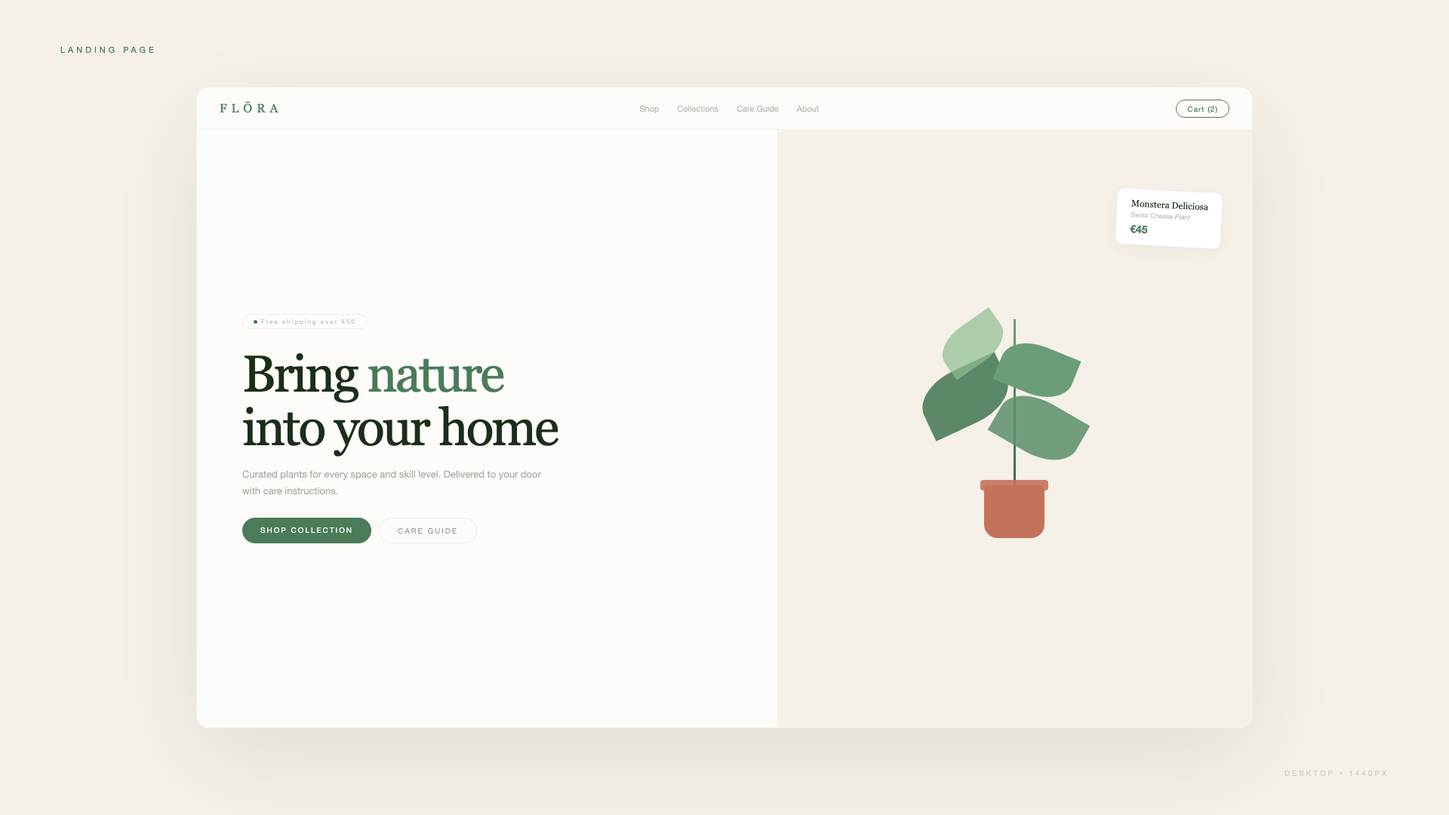
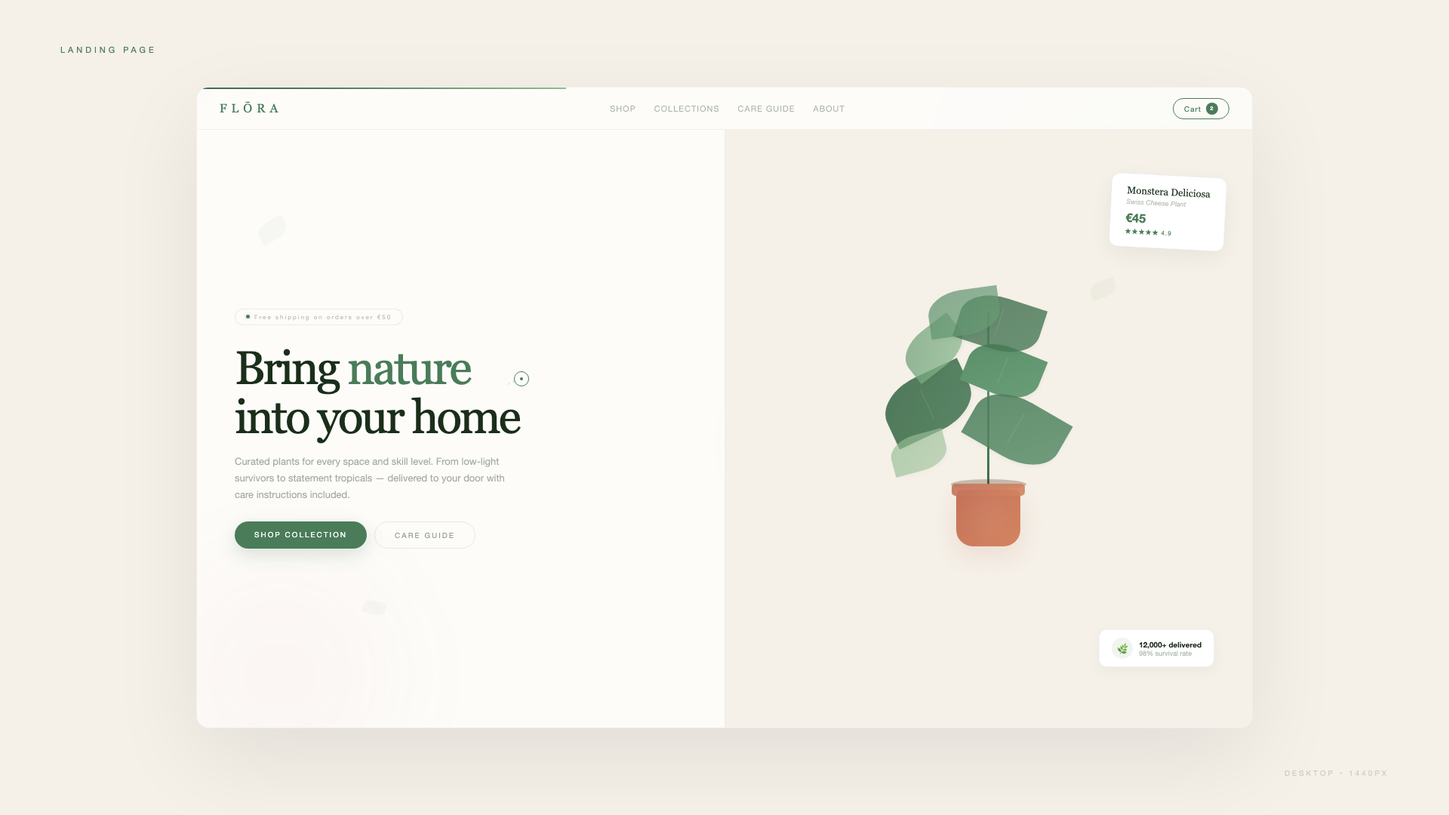
Update Behance slides 06 and 10 with enhanced design, regenerate all PNGs
Slide 06: richer landing mockup with 7-leaf plant, leaf veins, parallax
bg shapes, scroll progress bar, floating leaves, price+trust floating
tags, and cursor trail mockup.
Slide 10: updated animation previews with cursor trail system, 3D card
glow, gradient leaf fills, and counter with icon.

diff --git a/behance/10-animations.html b/behance/10-animations.html
@@ -13,38 +13,60 @@ h2{font-family:Georgia,serif;font-size:42px;font-weight:400;color:#1A2E1A;letter
 .anim-desc{font-size:11px;color:rgba(26,46,26,0.4);text-align:center;line-height:1.5;}
 .anim-tech{margin-top:10px;font-family:'SF Mono','Menlo',monospace;font-size:9px;color:rgba(74,124,89,0.5);text-align:center;}
 /* Leaf sway */
-.sway-leaf{width:80px;height:120px;position:relative;}
-.sway-leaf-shape{position:absolute;border-radius:50% 0 50% 0;animation:swayDemo 3s ease-in-out infinite;}
-.sl1{width:70px;height:45px;background:#4A7C59;bottom:50px;left:-20px;--r:-25deg;animation-delay:0s;}
-.sl2{width:60px;height:38px;background:#6B9E78;bottom:60px;left:15px;--r:20deg;animation-delay:0.5s;}
-.sl3{width:65px;height:40px;background:#5A8F6A;bottom:40px;left:10px;--r:30deg;animation-delay:1s;}
-.sway-stem{width:3px;height:80px;background:#3D6B4A;position:absolute;bottom:0;left:50%;transform:translateX(-50%);}
-@keyframes swayDemo{0%,100%{transform:rotate(var(--r,0deg));}50%{transform:rotate(calc(var(--r,0deg) + 8deg));}}
+.sway-leaf{width:80px;height:140px;position:relative;}
+.sway-leaf-shape{position:absolute;border-radius:50% 0 50% 0;animation:swayDemo 3s ease-in-out infinite;box-shadow:1px 2px 5px rgba(0,0,0,0.04);}
+.sl1{width:70px;height:45px;background:linear-gradient(135deg,#3D6B4A,#4A7C59);bottom:60px;left:-25px;--r:-25deg;}
+.sl2{width:60px;height:38px;background:linear-gradient(135deg,#5A8F6A,#6B9E78);bottom:75px;left:15px;--r:20deg;animation-delay:0.5s;}
+.sl3{width:65px;height:40px;background:linear-gradient(135deg,#4A7C59,#5A8F6A);bottom:45px;left:10px;--r:30deg;animation-delay:1s;}
+.sl4{width:50px;height:32px;background:linear-gradient(135deg,#6B9E78,#8FBC8F);bottom:88px;left:-12px;--r:-15deg;animation-delay:1.5s;opacity:0.7;}
+.sway-stem{width:3px;height:90px;background:linear-gradient(to top,#3D6B4A,#6B9E78);position:absolute;bottom:0;left:50%;transform:translateX(-50%);border-radius:2px;}
+.sway-vein{position:absolute;width:1px;height:50%;background:rgba(255,255,255,0.12);top:25%;left:48%;}
+@keyframes swayDemo{0%,100%{transform:rotate(var(--r,0deg)) scale(1);}50%{transform:rotate(calc(var(--r,0deg) + 8deg)) scale(1.02);}}
 /* Card tilt */
-.tilt-demo{width:160px;height:120px;background:white;border:1px solid rgba(26,46,26,0.08);border-radius:14px;padding:14px;animation:tiltDemo 4s ease-in-out infinite;box-shadow:0 8px 30px rgba(0,0,0,0.04);}
+.tilt-demo{width:160px;height:120px;background:white;border:1px solid rgba(26,46,26,0.08);border-radius:14px;padding:14px;animation:tiltDemo 4s ease-in-out infinite;box-shadow:0 8px 30px rgba(0,0,0,0.04);position:relative;overflow:hidden;}
+.tilt-glow{position:absolute;width:80px;height:80px;border-radius:50%;background:rgba(74,124,89,0.06);filter:blur(15px);animation:glowMove 4s ease-in-out infinite;top:10px;left:10px;}
+@keyframes glowMove{0%,100%{transform:translate(0,0);}25%{transform:translate(60px,20px);}75%{transform:translate(-10px,30px);}}
 @keyframes tiltDemo{0%,100%{transform:perspective(600px) rotateY(0) rotateX(0);}25%{transform:perspective(600px) rotateY(8deg) rotateX(-4deg);}75%{transform:perspective(600px) rotateY(-8deg) rotateX(4deg);}}
-.tilt-name{font-family:Georgia,serif;font-size:11px;color:#1A2E1A;margin-bottom:2px;}
-.tilt-latin{font-size:8px;color:rgba(26,46,26,0.3);font-style:italic;margin-bottom:10px;}
-.tilt-price{font-size:14px;font-weight:600;color:#4A7C59;}
-/* Cursor */
-.cur-demo{position:relative;}
-.cur-ring{width:40px;height:40px;border:1.5px solid #4A7C59;border-radius:50%;animation:curMov 3s ease-in-out infinite;}
-.cur-dot{width:6px;height:6px;background:#4A7C59;border-radius:50%;position:absolute;top:17px;left:17px;animation:curMov 3s ease-in-out infinite 0.15s;}
-@keyframes curMov{0%,100%{transform:translate(0,0);}25%{transform:translate(50px,25px);}50%{transform:translate(100px,-8px);}75%{transform:translate(35px,-25px);}}
+.tilt-name{font-family:Georgia,serif;font-size:11px;color:#1A2E1A;margin-bottom:2px;position:relative;z-index:1;}
+.tilt-latin{font-size:8px;color:rgba(26,46,26,0.3);font-style:italic;margin-bottom:10px;position:relative;z-index:1;}
+.tilt-price{font-size:14px;font-weight:600;color:#4A7C59;position:relative;z-index:1;}
+/* Cursor with trail */
+.cur-demo{position:relative;width:200px;height:160px;}
+.cur-ring{width:20px;height:20px;border:1.5px solid #4A7C59;border-radius:50%;position:absolute;animation:curMov 3s ease-in-out infinite;}
+.cur-dot{width:5px;height:5px;background:#4A7C59;border-radius:50%;position:absolute;top:7.5px;left:7.5px;animation:curMov 3s ease-in-out infinite 0.08s;}
+.cur-trail{position:absolute;background:#4A7C59;border-radius:50%;animation:curMov 3s ease-in-out infinite;}
+.ct1{width:3px;height:3px;top:8.5px;left:8.5px;animation-delay:0.16s;opacity:0.15;}
+.ct2{width:2.5px;height:2.5px;top:8.75px;left:8.75px;animation-delay:0.24s;opacity:0.12;}
+.ct3{width:2px;height:2px;top:9px;left:9px;animation-delay:0.32s;opacity:0.08;}
+.cur-hover{width:50px;height:50px;border:1.5px solid rgba(107,158,120,0.4);border-radius:50%;background:rgba(74,124,89,0.05);position:absolute;top:55px;left:100px;opacity:0;animation:curHover 3s ease-in-out infinite;}
+@keyframes curHover{0%,40%{opacity:0;}50%,70%{opacity:1;}80%,100%{opacity:0;}}
+@keyframes curMov{0%,100%{transform:translate(20px,60px);}25%{transform:translate(90px,30px);}50%{transform:translate(125px,55px);}75%{transform:translate(50px,90px);}}
 /* Floating leaves */
 .float-demo{position:relative;width:200px;height:200px;}
 .float-leaf{position:absolute;border-radius:50% 0 50% 0;background:#4A7C59;animation:floatL linear infinite;}
-@keyframes floatL{0%,100%{opacity:0;transform:translateY(80px) rotate(0deg);}15%{opacity:0.2;}85%{opacity:0.2;}50%{transform:translateY(-80px) rotate(180deg) translateX(20px);}}
+@keyframes floatL{0%,100%{opacity:0;transform:translateY(80px) rotate(0deg);}15%{opacity:0.15;}85%{opacity:0.15;}50%{transform:translateY(-80px) rotate(180deg) translateX(20px);}}
 /* Quick view */
 .qv-demo{width:160px;height:140px;background:white;border:1px solid rgba(26,46,26,0.08);border-radius:14px;overflow:hidden;position:relative;}
-.qv-img{height:90px;background:#FAFAF5;display:flex;align-items:center;justify-content:center;}
-.qv-btn{position:absolute;bottom:50px;left:50%;transform:translateX(-50%);padding:5px 14px;background:#4A7C59;color:white;border-radius:50px;font-size:7px;letter-spacing:1px;text-transform:uppercase;animation:qvSlide 3s ease-in-out infinite;white-space:nowrap;}
+.qv-img{height:90px;background:#FAFAF5;display:flex;align-items:center;justify-content:center;position:relative;overflow:hidden;}
+.qv-img-bg{position:absolute;inset:0;background:radial-gradient(circle at 50% 60%,rgba(74,124,89,0.06),transparent 70%);}
+.qv-btn{position:absolute;bottom:50px;left:50%;transform:translateX(-50%);padding:5px 14px;background:#4A7C59;color:white;border-radius:50px;font-size:7px;letter-spacing:1px;text-transform:uppercase;animation:qvSlide 3s ease-in-out infinite;white-space:nowrap;box-shadow:0 4px 12px rgba(74,124,89,0.2);}
 @keyframes qvSlide{0%,30%{bottom:-30px;opacity:0;}50%,80%{bottom:52px;opacity:1;}100%{bottom:-30px;opacity:0;}}
 .qv-info{padding:8px 12px;}
 .qv-name{font-family:Georgia,serif;font-size:10px;color:#1A2E1A;}
 .qv-price{font-size:11px;font-weight:600;color:#4A7C59;}
 /* Counter */
-.counter-demo{font-family:Georgia,serif;font-size:64px;font-weight:400;color:#4A7C59;letter-spacing:-3px;}
+.counter-demo{font-family:Georgia,serif;font-size:58px;font-weight:400;color:#4A7C59;letter-spacing:-3px;position:relative;}
+.counter-label{font-size:10px;letter-spacing:2px;text-transform:uppercase;color:rgba(26,46,26,0.25);margin-top:6px;text-align:center;}
+.counter-icon{font-size:20px;margin-bottom:8px;opacity:0.5;text-align:center;}
+/* Parallax */
+.parallax-demo{position:relative;width:200px;height:180px;}
+.para-shape{position:absolute;border-radius:50%;filter:blur(15px);animation:paraFloat ease-in-out infinite;}
+.ps1{width:80px;height:80px;background:rgba(74,124,89,0.08);top:20px;left:20px;animation-duration:4s;}
+.ps2{width:60px;height:60px;background:rgba(196,114,90,0.06);bottom:30px;right:20px;animation-duration:5s;animation-delay:1s;}
+.ps3{width:40px;height:40px;background:rgba(212,197,169,0.06);top:60px;right:40px;animation-duration:3.5s;animation-delay:0.5s;}
+.para-card{width:120px;height:80px;background:white;border:1px solid rgba(26,46,26,0.06);border-radius:10px;position:absolute;top:50%;left:50%;transform:translate(-50%,-50%);box-shadow:0 6px 20px rgba(0,0,0,0.03);display:flex;align-items:center;justify-content:center;z-index:1;}
+.para-card-text{font-family:Georgia,serif;font-size:10px;color:rgba(26,46,26,0.3);}
+@keyframes paraFloat{0%,100%{transform:translate(0,0) scale(1);}50%{transform:translate(15px,-12px) scale(1.08);}}
 </style>
 </head>
 <body>
@@ -54,35 +76,44 @@ h2{font-family:Georgia,serif;font-size:42px;font-weight:400;color:#1A2E1A;letter
   <div class="anim-card">
     <div class="anim-preview">
       <div class="sway-leaf">
-        <div class="sway-leaf-shape sl1"></div>
-        <div class="sway-leaf-shape sl2"></div>
-        <div class="sway-leaf-shape sl3"></div>
+        <div class="sway-leaf-shape sl1"><div class="sway-vein"></div></div>
+        <div class="sway-leaf-shape sl2"><div class="sway-vein"></div></div>
+        <div class="sway-leaf-shape sl3"><div class="sway-vein"></div></div>
+        <div class="sway-leaf-shape sl4"></div>
         <div class="sway-stem"></div>
       </div>
     </div>
     <div class="anim-title">Leaf sway</div>
-    <div class="anim-desc">CSS plants gently sway using @keyframes with custom rotation variables, creating organic movement.</div>
+    <div class="anim-desc">CSS plants gently sway using @keyframes with custom rotation variables and gradient fills for organic depth.</div>
     <div class="anim-tech">@keyframes + CSS custom properties</div>
   </div>
   <div class="anim-card">
     <div class="anim-preview">
       <div class="tilt-demo">
+        <div class="tilt-glow"></div>
         <div class="tilt-name">Monstera</div>
         <div class="tilt-latin">Swiss Cheese</div>
         <div class="tilt-price">€45</div>
       </div>
     </div>
-    <div class="anim-title">Card tilt</div>
-    <div class="anim-desc">Product cards tilt in 3D following the mouse with perspective transform, creating depth on hover.</div>
+    <div class="anim-title">3D card tilt</div>
+    <div class="anim-desc">Product cards tilt in 3D following the mouse with perspective transform and a radial glow that tracks position.</div>
     <div class="anim-tech">mousemove + perspective + rotateX/Y</div>
   </div>
   <div class="anim-card">
     <div class="anim-preview">
-      <div class="cur-demo"><div class="cur-ring"></div><div class="cur-dot"></div></div>
+      <div class="cur-demo">
+        <div class="cur-ring"></div>
+        <div class="cur-dot"></div>
+        <div class="cur-trail ct1"></div>
+        <div class="cur-trail ct2"></div>
+        <div class="cur-trail ct3"></div>
+        <div class="cur-hover"></div>
+      </div>
     </div>
-    <div class="anim-title">Custom cursor</div>
-    <div class="anim-desc">Ring follows with lerp delay, dot trails behind. Expands on hoverable elements for clear interaction feedback.</div>
-    <div class="anim-tech">requestAnimationFrame + lerp</div>
+    <div class="anim-title">Cursor + trail system</div>
+    <div class="anim-desc">Lerp ring, dot, and 5 trailing particles. Expands with glow on hoverable elements for clear interaction feedback.</div>
+    <div class="anim-tech">rAF + lerp interpolation</div>
   </div>
   <div class="anim-card">
     <div class="anim-preview">
@@ -92,29 +123,35 @@ h2{font-family:Georgia,serif;font-size:42px;font-weight:400;color:#1A2E1A;letter
         <div class="float-leaf" style="width:12px;height:16px;left:70%;animation-duration:3.5s;animation-delay:1.5s;"></div>
         <div class="float-leaf" style="width:9px;height:13px;left:35%;animation-duration:4.5s;animation-delay:2s;"></div>
         <div class="float-leaf" style="width:11px;height:15px;left:60%;animation-duration:3.8s;animation-delay:0.4s;"></div>
+        <div class="float-leaf" style="width:7px;height:10px;left:15%;animation-duration:5.5s;animation-delay:1.2s;"></div>
+        <div class="float-leaf" style="width:10px;height:14px;left:80%;animation-duration:4.2s;animation-delay:0.6s;"></div>
       </div>
     </div>
     <div class="anim-title">Floating leaves</div>
-    <div class="anim-desc">Subtle leaf shapes drift across the viewport, adding atmosphere without distraction. Random timing and size.</div>
+    <div class="anim-desc">25 leaf shapes drift across the viewport with random timing, size, and rotation. Subtle atmosphere layer.</div>
     <div class="anim-tech">CSS animation + random positions</div>
   </div>
   <div class="anim-card">
     <div class="anim-preview">
       <div class="qv-demo">
-        <div class="qv-img"><div style="width:20px;height:18px;background:#C4725A;border-radius:3px 3px 8px 8px;"></div></div>
+        <div class="qv-img"><div class="qv-img-bg"></div><div style="width:20px;height:18px;background:linear-gradient(135deg,#C4725A,#D4845E);border-radius:3px 3px 8px 8px;position:relative;z-index:1;"></div></div>
         <div class="qv-btn">Quick view</div>
         <div class="qv-info"><div class="qv-name">Monstera</div><div class="qv-price">€45</div></div>
       </div>
     </div>
     <div class="anim-title">Quick view reveal</div>
-    <div class="anim-desc">A CTA slides up from below the product image on hover, offering a shortcut to product details.</div>
+    <div class="anim-desc">A CTA slides up from below the product image on hover with shadow, offering a shortcut to product details.</div>
     <div class="anim-tech">CSS transition + overflow hidden</div>
   </div>
   <div class="anim-card">
-    <div class="anim-preview"><div class="counter-demo" id="ctr">0</div></div>
+    <div class="anim-preview" style="flex-direction:column;">
+      <div class="counter-icon">🌱</div>
+      <div class="counter-demo" id="ctr">0</div>
+      <div class="counter-label">Plants delivered</div>
+    </div>
     <div class="anim-title">Counter animation</div>
-    <div class="anim-desc">Numbers count from zero to target with cubic easing when scrolled into view. Used for stats section.</div>
-    <div class="anim-tech">rAF + cubic ease-out</div>
+    <div class="anim-desc">Numbers count from zero to target with cubic ease-out when scrolled into view. Four stat counters with icons.</div>
+    <div class="anim-tech">rAF + cubic ease-out + IntersectionObserver</div>
   </div>
 </div>
 <script>

diff --git a/behance/06-landing.html b/behance/06-landing.html
@@ -5,56 +5,122 @@
 *{margin:0;padding:0;box-sizing:border-box;}
 body{width:1920px;height:1080px;background:#F5F0E8;font-family:'Helvetica Neue',Arial,sans-serif;display:flex;align-items:center;justify-content:center;overflow:hidden;position:relative;}
 .label{position:absolute;top:60px;left:80px;font-size:11px;letter-spacing:4px;text-transform:uppercase;color:#4A7C59;}
-.mockup{width:1400px;height:850px;background:#FDFCF9;border-radius:16px;border:1px solid rgba(26,46,26,0.06);overflow:hidden;box-shadow:0 40px 120px rgba(0,0,0,0.08);}
-.mock-nav{height:56px;border-bottom:1px solid rgba(26,46,26,0.06);display:flex;align-items:center;justify-content:space-between;padding:0 30px;}
+.mockup{width:1400px;height:850px;background:#FDFCF9;border-radius:16px;border:1px solid rgba(26,46,26,0.06);overflow:hidden;box-shadow:0 40px 120px rgba(0,0,0,0.08);position:relative;}
+.mock-nav{height:56px;border-bottom:1px solid rgba(26,46,26,0.06);display:flex;align-items:center;justify-content:space-between;padding:0 30px;background:rgba(253,252,249,0.85);backdrop-filter:blur(10px);position:relative;z-index:5;}
 .mock-logo{font-family:Georgia,serif;font-size:16px;letter-spacing:6px;color:#4A7C59;}
-.mock-links{display:flex;gap:24px;font-size:11px;color:rgba(26,46,26,0.35);}
-.mock-cart{padding:5px 14px;border:1px solid #4A7C59;border-radius:50px;font-size:10px;color:#4A7C59;letter-spacing:1px;}
+.mock-links{display:flex;gap:24px;font-size:11px;color:rgba(26,46,26,0.35);letter-spacing:1px;text-transform:uppercase;}
+.mock-cart{padding:5px 14px;border:1px solid #4A7C59;border-radius:50px;font-size:10px;color:#4A7C59;letter-spacing:1px;display:flex;align-items:center;gap:6px;}
+.mock-cart-count{width:16px;height:16px;border-radius:50%;background:#4A7C59;color:white;display:flex;align-items:center;justify-content:center;font-size:7px;font-weight:600;}
+.scroll-bar{position:absolute;top:0;left:0;height:2px;width:35%;background:linear-gradient(90deg,#3D6B4A,#4A7C59,#6B9E78,#8FBC8F);z-index:10;}
 .mock-hero{display:flex;height:calc(100% - 56px);position:relative;}
-.mock-left{width:55%;padding:80px 60px;display:flex;flex-direction:column;justify-content:center;}
-.mock-badge{display:inline-block;padding:4px 14px;border:1px solid rgba(26,46,26,0.08);border-radius:30px;font-size:8px;letter-spacing:2px;color:rgba(26,46,26,0.35);margin-bottom:24px;width:fit-content;}
-.mock-badge .dot{display:inline-block;width:5px;height:5px;border-radius:50%;background:#4A7C59;margin-right:5px;vertical-align:middle;}
-.mock-title{font-family:Georgia,serif;font-size:68px;font-weight:400;color:#1A2E1A;letter-spacing:-3px;line-height:1.05;margin-bottom:16px;}
+/* BG shapes */
+.bg-circle{position:absolute;border-radius:50%;filter:blur(60px);}
+.bg1{width:400px;height:400px;background:rgba(74,124,89,0.06);top:-100px;right:-50px;}
+.bg2{width:300px;height:300px;background:rgba(196,114,90,0.04);bottom:-80px;left:-40px;}
+.bg3{width:200px;height:200px;background:rgba(212,197,169,0.05);top:40%;right:30%;}
+.mock-left{width:50%;padding:70px 50px;display:flex;flex-direction:column;justify-content:center;position:relative;z-index:2;}
+.mock-badge{display:inline-flex;align-items:center;gap:6px;padding:5px 14px;border:1px solid rgba(26,46,26,0.08);border-radius:30px;font-size:8px;letter-spacing:2px;color:rgba(26,46,26,0.35);margin-bottom:24px;width:fit-content;background:rgba(253,252,249,0.5);}
+.mock-badge .dot{width:5px;height:5px;border-radius:50%;background:#4A7C59;box-shadow:0 0 4px rgba(74,124,89,0.3);}
+.mock-title{font-family:Georgia,serif;font-size:62px;font-weight:400;color:#1A2E1A;letter-spacing:-3px;line-height:1.05;margin-bottom:16px;}
 .mock-title span{color:#4A7C59;}
-.mock-desc{font-size:13px;color:rgba(26,46,26,0.4);line-height:1.7;max-width:400px;margin-bottom:24px;}
+.mock-desc{font-size:13px;color:rgba(26,46,26,0.4);line-height:1.7;max-width:380px;margin-bottom:24px;}
 .mock-btns{display:flex;gap:10px;}
-.mock-btn-p{padding:10px 24px;background:#4A7C59;color:white;border-radius:50px;font-size:10px;letter-spacing:2px;text-transform:uppercase;}
-.mock-btn-s{padding:10px 24px;border:1px solid rgba(26,46,26,0.1);border-radius:50px;font-size:10px;letter-spacing:2px;text-transform:uppercase;color:rgba(26,46,26,0.5);}
-.mock-right{width:45%;background:#F5F0E8;display:flex;align-items:center;justify-content:center;position:relative;}
+.mock-btn-p{padding:11px 26px;background:#4A7C59;color:white;border-radius:50px;font-size:10px;letter-spacing:2px;text-transform:uppercase;box-shadow:0 8px 25px rgba(74,124,89,0.2);position:relative;overflow:hidden;}
+.mock-btn-p::after{content:'';position:absolute;top:0;left:-100%;width:60%;height:100%;background:linear-gradient(90deg,transparent,rgba(255,255,255,0.15),transparent);transform:skewX(-20deg);}
+.mock-btn-s{padding:11px 26px;border:1px solid rgba(26,46,26,0.1);border-radius:50px;font-size:10px;letter-spacing:2px;text-transform:uppercase;color:rgba(26,46,26,0.5);}
+.mock-right{width:50%;background:#F5F0E8;display:flex;align-items:center;justify-content:center;position:relative;overflow:hidden;}
+/* Enhanced plant with 7 leaves */
 .mock-plant{position:relative;display:flex;flex-direction:column;align-items:center;}
-.mp-stem{width:3px;height:220px;background:linear-gradient(to top,#3D6B4A,#6B9E78);}
-.mp-leaf{position:absolute;border-radius:50% 0 50% 0;}
-.mp1{width:120px;height:75px;background:#4A7C59;bottom:150px;left:-85px;transform:rotate(-25deg);opacity:0.9;}
-.mp2{width:100px;height:65px;background:#6B9E78;bottom:190px;left:20px;transform:rotate(22deg);}
-.mp3{width:115px;height:72px;background:#5A8F6A;bottom:110px;left:15px;transform:rotate(30deg);opacity:0.85;}
-.mp4{width:90px;height:55px;background:#8FBC8F;bottom:230px;left:-60px;transform:rotate(-35deg);opacity:0.7;}
-.mp-pot{width:80px;height:70px;background:#C4725A;border-radius:6px 6px 18px 18px;position:relative;}
-.mp-pot::before{content:'';position:absolute;top:-7px;left:-5px;width:calc(100% + 10px);height:14px;background:#C4725A;border-radius:4px;opacity:0.9;}
-.mock-tag{position:absolute;top:80px;right:40px;padding:12px 18px;background:white;border:1px solid rgba(26,46,26,0.06);border-radius:10px;box-shadow:0 6px 20px rgba(0,0,0,0.04);transform:rotate(3deg);}
-.mock-tag-name{font-family:Georgia,serif;font-size:12px;margin-bottom:2px;color:#1A2E1A;}
-.mock-tag-latin{font-size:9px;color:rgba(26,46,26,0.35);font-style:italic;margin-bottom:5px;}
-.mock-tag-price{font-size:14px;font-weight:600;color:#4A7C59;}
+.mp-stem{width:3px;height:230px;background:linear-gradient(to top,#3D6B4A,#5A8F6A,#6B9E78);border-radius:2px;}
+.mp-leaf{position:absolute;border-radius:50% 0 50% 0;box-shadow:1px 3px 6px rgba(0,0,0,0.04);}
+.mp-vein{position:absolute;width:1px;height:55%;background:rgba(255,255,255,0.12);top:22%;left:48%;}
+.mp1{width:120px;height:78px;background:linear-gradient(135deg,#3D6B4A,#4A7C59);bottom:150px;left:-90px;transform:rotate(-25deg);opacity:0.9;}
+.mp2{width:100px;height:65px;background:linear-gradient(135deg,#5A8F6A,#6B9E78);bottom:200px;left:20px;transform:rotate(22deg);}
+.mp3{width:125px;height:80px;background:linear-gradient(135deg,#4A7C59,#5A8F6A);bottom:115px;left:25px;transform:rotate(30deg);opacity:0.85;}
+.mp4{width:85px;height:55px;background:linear-gradient(135deg,#6B9E78,#8FBC8F);bottom:235px;left:-65px;transform:rotate(-38deg);opacity:0.75;}
+.mp5{width:110px;height:70px;background:linear-gradient(135deg,#3D6B4A,#4A7C59);bottom:260px;left:10px;transform:rotate(18deg);opacity:0.8;}
+.mp6{width:75px;height:48px;background:linear-gradient(135deg,#8FBC8F,#A8C5A0);bottom:100px;left:-80px;transform:rotate(-15deg);opacity:0.65;}
+.mp7{width:95px;height:60px;background:linear-gradient(135deg,#5A8F6A,#6B9E78);bottom:280px;left:-30px;transform:rotate(-8deg);opacity:0.7;}
+.mp-soil{width:100px;height:14px;background:#5D3E28;border-radius:50%;opacity:0.3;margin-top:-8px;}
+.mp-pot{width:85px;height:75px;background:linear-gradient(135deg,#C4725A,#D4845E);border-radius:8px 8px 22px 22px;position:relative;box-shadow:0 12px 30px rgba(196,114,90,0.15);}
+.mp-pot::before{content:'';position:absolute;top:-8px;left:-6px;width:calc(100% + 12px);height:16px;background:linear-gradient(135deg,#C4725A,#D4845E);border-radius:5px;opacity:0.9;}
+.mp-pot::after{content:'';position:absolute;top:8px;left:25%;width:50%;height:75%;background:rgba(255,255,255,0.04);border-radius:50%;filter:blur(8px);}
+/* Tags */
+.mock-tag{position:absolute;top:60px;right:35px;padding:14px 20px;background:white;border:1px solid rgba(26,46,26,0.06);border-radius:12px;box-shadow:0 10px 30px rgba(0,0,0,0.05);transform:rotate(3deg);z-index:3;}
+.mock-tag-name{font-family:Georgia,serif;font-size:13px;margin-bottom:2px;color:#1A2E1A;}
+.mock-tag-latin{font-size:9px;color:rgba(26,46,26,0.35);font-style:italic;margin-bottom:6px;}
+.mock-tag-price{font-size:16px;font-weight:600;color:#4A7C59;margin-bottom:3px;}
+.mock-tag-stars{font-size:8px;color:#4A7C59;letter-spacing:1px;}
+.mock-trust{position:absolute;bottom:80px;right:50px;padding:10px 16px;background:white;border:1px solid rgba(26,46,26,0.06);border-radius:10px;box-shadow:0 6px 20px rgba(0,0,0,0.04);display:flex;align-items:center;gap:8px;z-index:3;}
+.trust-icon{width:28px;height:28px;border-radius:50%;background:rgba(74,124,89,0.08);display:flex;align-items:center;justify-content:center;font-size:12px;}
+.trust-text{font-size:9px;color:rgba(26,46,26,0.4);}
+.trust-text strong{color:#1A2E1A;display:block;font-size:10px;}
+/* Floating leaves */
+.float-leaf{position:absolute;border-radius:50% 0 50% 0;background:#4A7C59;opacity:0.04;z-index:1;}
+.fl1{width:40px;height:26px;top:120px;left:80px;transform:rotate(-30deg);}
+.fl2{width:30px;height:18px;bottom:150px;left:220px;transform:rotate(15deg);}
+.fl3{width:35px;height:22px;top:200px;right:180px;transform:rotate(-20deg);}
+/* Cursor mockup */
+.cursor-mock{position:absolute;z-index:4;}
+.cursor-ring{width:20px;height:20px;border:1.5px solid #4A7C59;border-radius:50%;position:absolute;top:320px;left:420px;}
+.cursor-dot{width:4px;height:4px;background:#4A7C59;border-radius:50%;position:absolute;top:328px;left:428px;}
+.cursor-trail1{width:3px;height:3px;background:#4A7C59;border-radius:50%;position:absolute;top:332px;left:418px;opacity:0.15;}
+.cursor-trail2{width:2.5px;height:2.5px;background:#4A7C59;border-radius:50%;position:absolute;top:335px;left:412px;opacity:0.1;}
 .tag{position:absolute;bottom:50px;right:80px;font-size:10px;letter-spacing:3px;text-transform:uppercase;color:rgba(26,46,26,0.2);}
+/* Annotation markers */
+.anno{position:absolute;z-index:6;}
+.anno-dot{width:8px;height:8px;border-radius:50%;background:#4A7C59;box-shadow:0 0 0 3px rgba(74,124,89,0.15);}
+.anno-line{width:1px;background:rgba(74,124,89,0.15);}
+.anno-text{font-size:8px;letter-spacing:1px;text-transform:uppercase;color:#4A7C59;white-space:nowrap;}
 </style>
 </head>
 <body>
 <div class="label">Landing Page</div>
 <div class="mockup">
-  <div class="mock-nav"><span class="mock-logo">FLŌRA</span><div class="mock-links"><span>Shop</span><span>Collections</span><span>Care Guide</span><span>About</span></div><span class="mock-cart">Cart (2)</span></div>
+  <div class="scroll-bar"></div>
+  <div class="mock-nav"><span class="mock-logo">FLŌRA</span><div class="mock-links"><span>Shop</span><span>Collections</span><span>Care Guide</span><span>About</span></div><div class="mock-cart"><span>Cart</span><span class="mock-cart-count">2</span></div></div>
   <div class="mock-hero">
+    <div class="bg-circle bg1"></div>
+    <div class="bg-circle bg2"></div>
+    <div class="bg-circle bg3"></div>
+    <div class="float-leaf fl1"></div>
+    <div class="float-leaf fl2"></div>
+    <div class="float-leaf fl3"></div>
     <div class="mock-left">
-      <div class="mock-badge"><span class="dot"></span>Free shipping over €50</div>
+      <div class="mock-badge"><span class="dot"></span>Free shipping on orders over €50</div>
       <div class="mock-title">Bring <span>nature</span><br>into your home</div>
-      <div class="mock-desc">Curated plants for every space and skill level. Delivered to your door with care instructions.</div>
+      <div class="mock-desc">Curated plants for every space and skill level. From low-light survivors to statement tropicals — delivered to your door with care instructions included.</div>
       <div class="mock-btns"><span class="mock-btn-p">Shop collection</span><span class="mock-btn-s">Care guide</span></div>
     </div>
     <div class="mock-right">
       <div class="mock-plant">
-        <div class="mp-leaf mp1"></div><div class="mp-leaf mp2"></div><div class="mp-leaf mp3"></div><div class="mp-leaf mp4"></div>
-        <div class="mp-stem"></div><div class="mp-pot"></div>
+        <div class="mp-leaf mp1"><div class="mp-vein"></div></div>
+        <div class="mp-leaf mp2"><div class="mp-vein"></div></div>
+        <div class="mp-leaf mp3"><div class="mp-vein"></div></div>
+        <div class="mp-leaf mp4"></div>
+        <div class="mp-leaf mp5"><div class="mp-vein"></div></div>
+        <div class="mp-leaf mp6"></div>
+        <div class="mp-leaf mp7"></div>
+        <div class="mp-stem"></div>
+        <div class="mp-soil"></div>
+        <div class="mp-pot"></div>
       </div>
-      <div class="mock-tag"><div class="mock-tag-name">Monstera Deliciosa</div><div class="mock-tag-latin">Swiss Cheese Plant</div><div class="mock-tag-price">€45</div></div>
+      <div class="mock-tag">
+        <div class="mock-tag-name">Monstera Deliciosa</div>
+        <div class="mock-tag-latin">Swiss Cheese Plant</div>
+        <div class="mock-tag-price">€45</div>
+        <div class="mock-tag-stars">★★★★★ 4.9</div>
+      </div>
+      <div class="mock-trust">
+        <div class="trust-icon">🌿</div>
+        <div class="trust-text"><strong>12,000+ delivered</strong>98% survival rate</div>
+      </div>
     </div>
+    <!-- Cursor mockup -->
+    <div class="cursor-ring"></div>
+    <div class="cursor-dot"></div>
+    <div class="cursor-trail1"></div>
+    <div class="cursor-trail2"></div>
   </div>
 </div>
 <div class="tag">Desktop &bull; 1440px</div>
